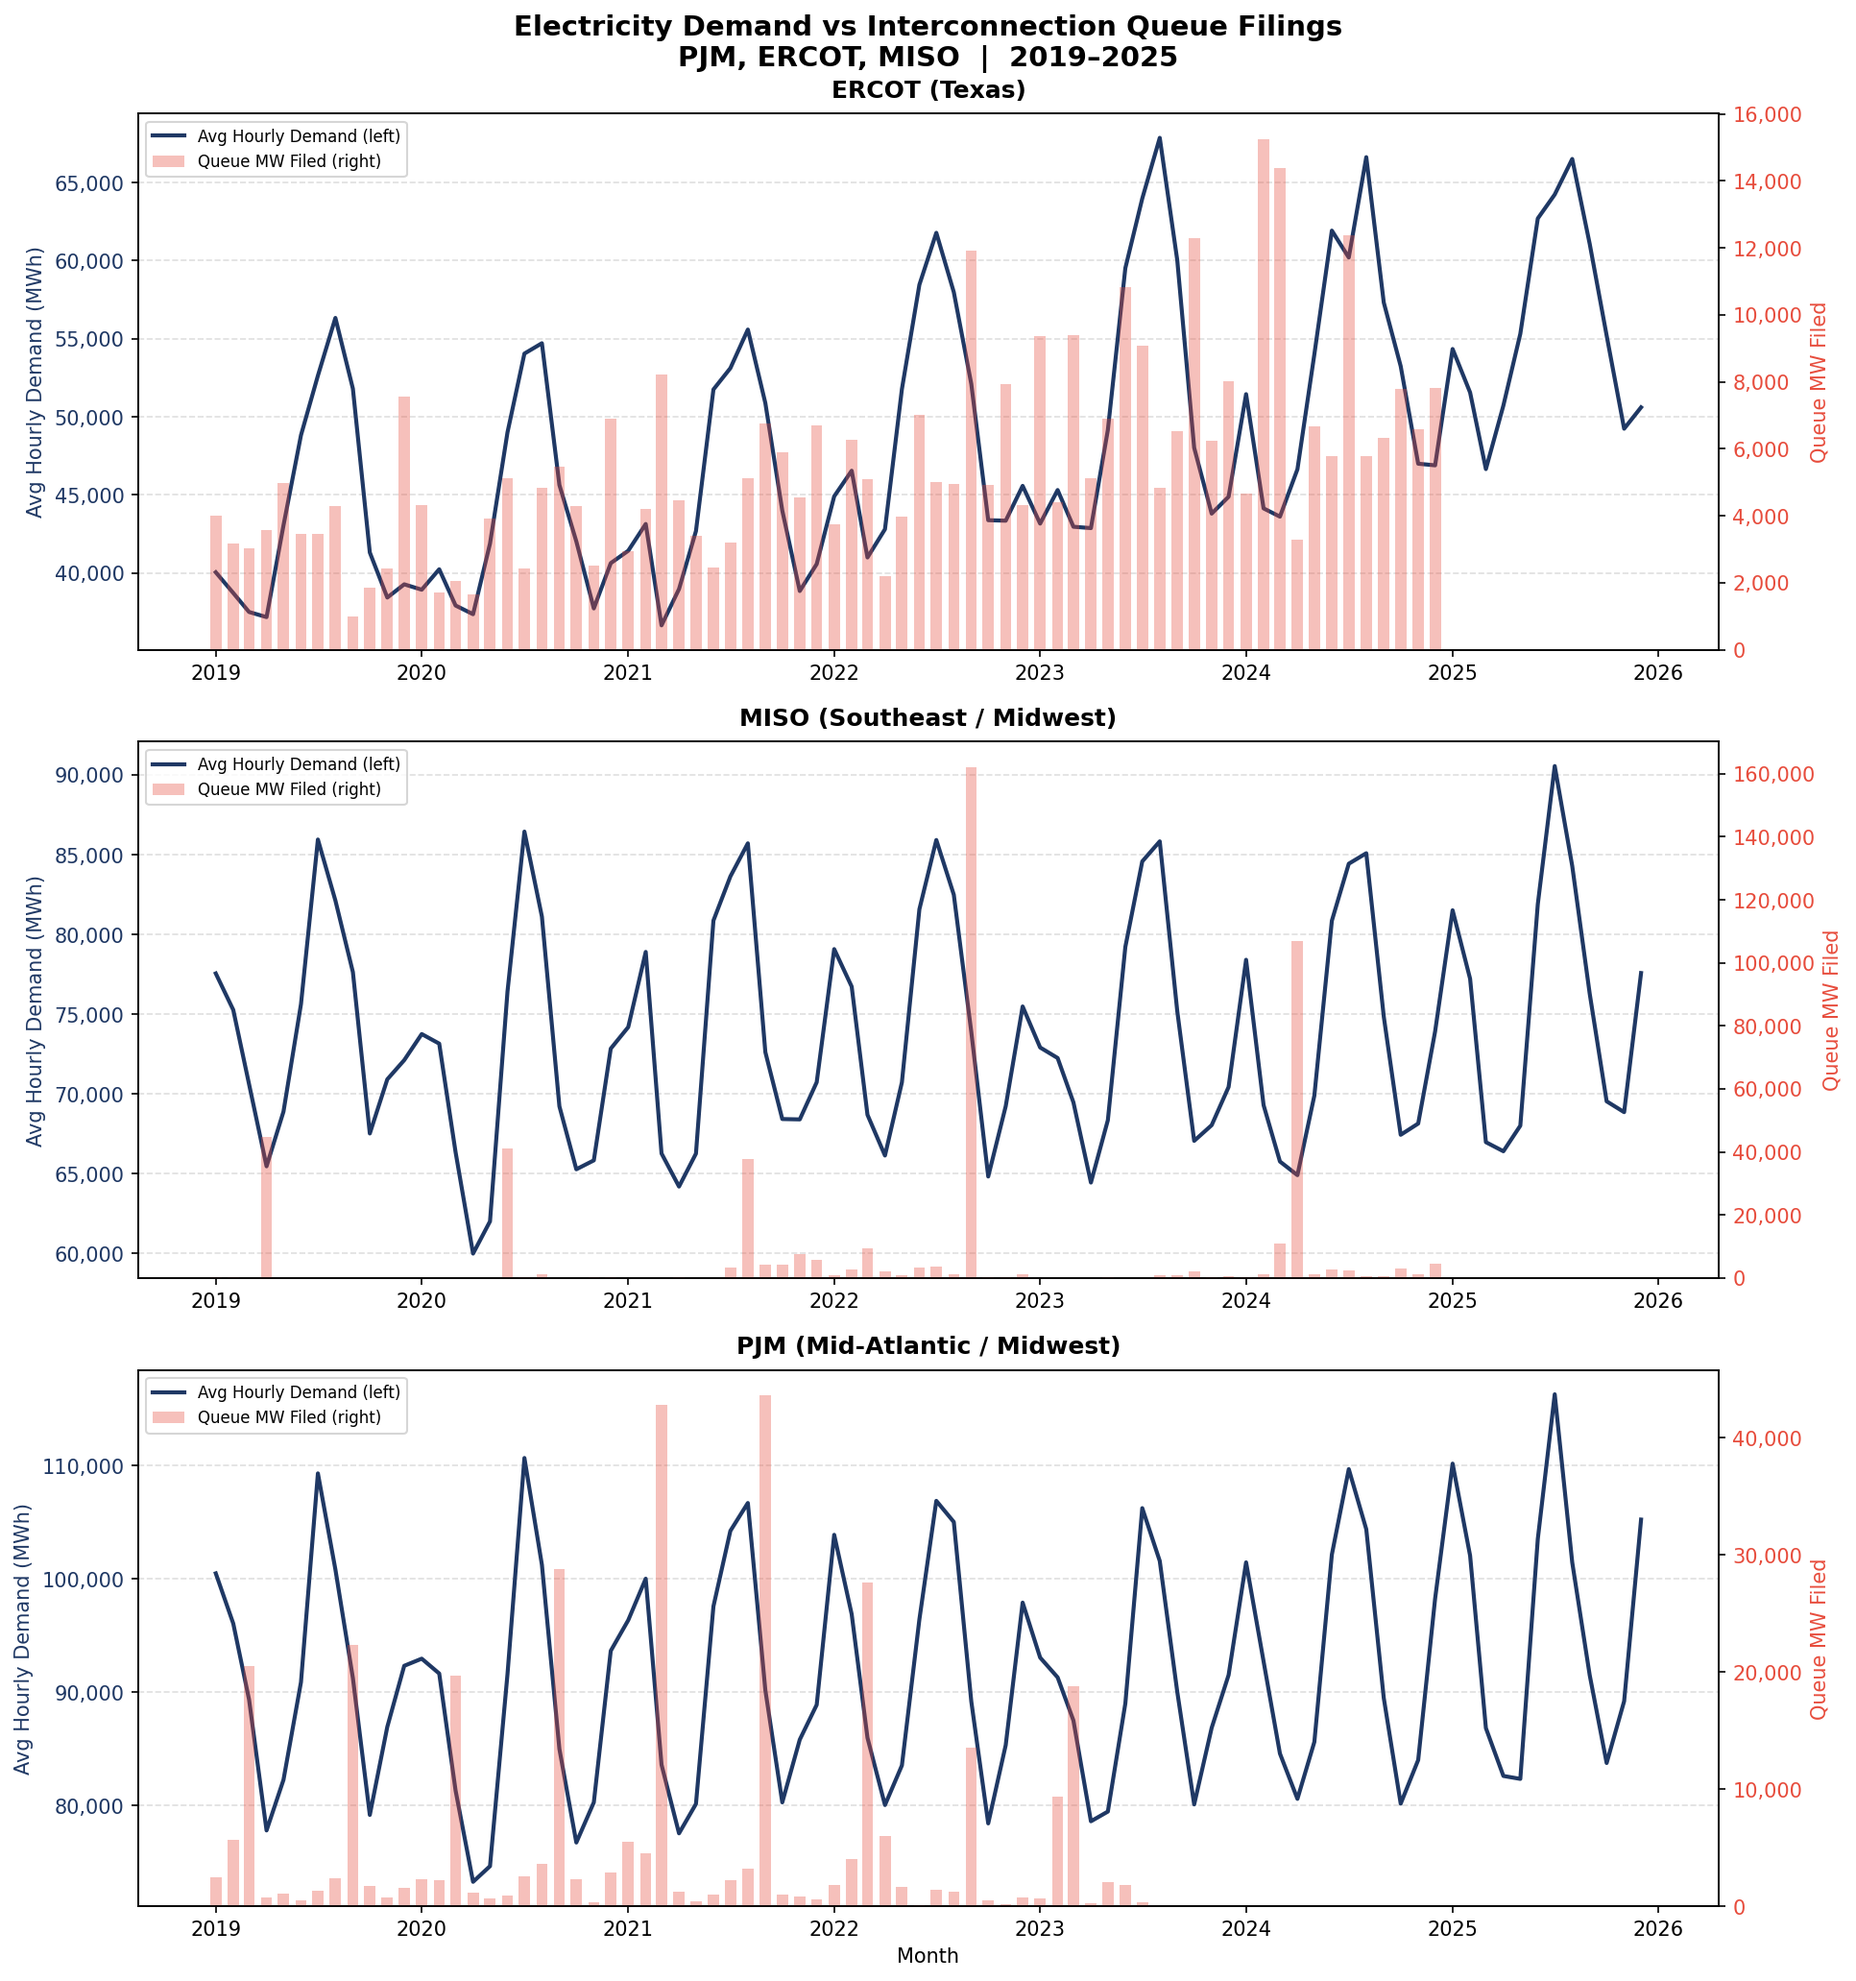
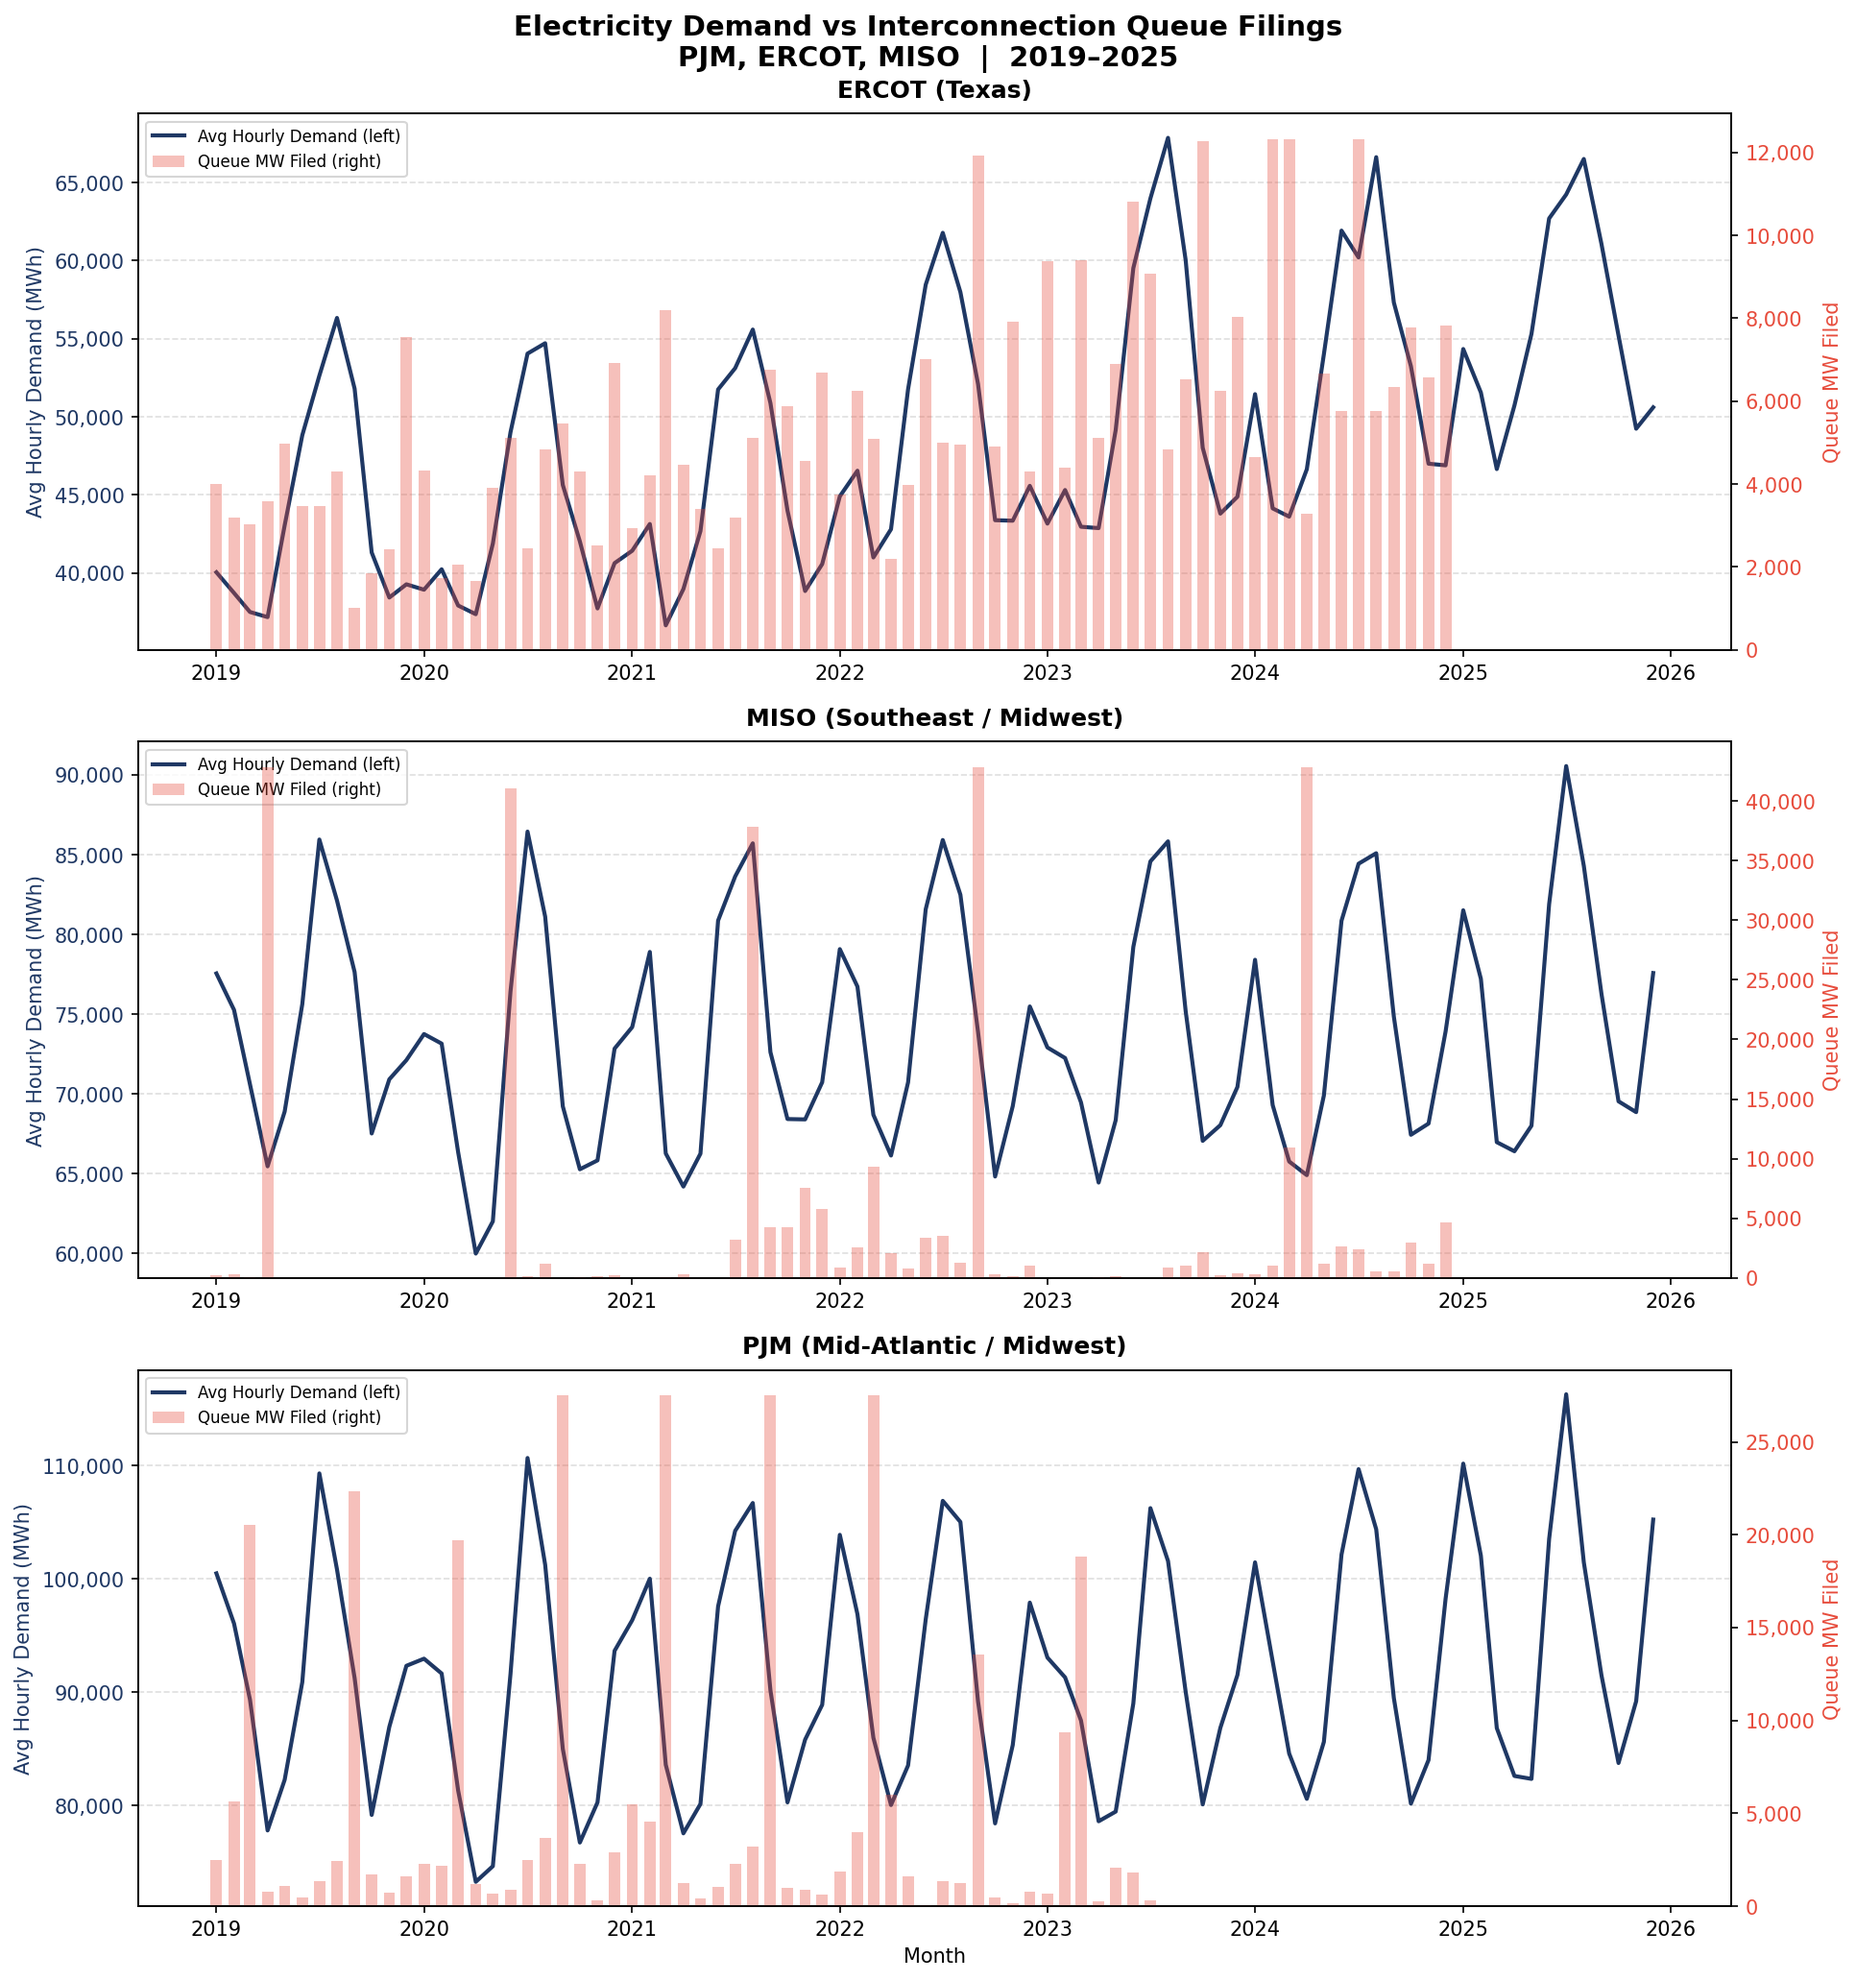
feat: add batch-filing outlier cap, regenerate panel and co-movement charts

diff --git a/scripts/build_panel.py b/scripts/build_panel.py
@@ -28,6 +28,12 @@ Notes on data cleaning:
   - EIA data contains three corrupt PJM rows from 2021-10-19 with values
     in the billions of MWh. These are filtered out with a 500,000 MWh cap,
     consistent with explore_eia.py.
+  - MISO queue data contains two batch-filing months (2022-09: 883 projects,
+    162 GW; 2024-04: 547 projects, 107 GW) where MISO processed a large
+    administrative backlog and stamped all projects with the same queue date.
+    These are capped at the 99th percentile of monthly filings per BA to
+    prevent them from dominating the panel and distorting lag variables.
+    This decision is documented as an explicit data cleaning step.
 """
 
 import os
@@ -150,6 +156,23 @@ flow = flow.merge(count_filed, on=["ba", "year_month"], how="left")
 flow["queue_mw_filed_large"] = flow["queue_mw_filed_large"].fillna(0)
 
 print(f"  Flow rows: {len(flow):,}")
+print()
+
+# ── Step 3b: Cap batch-filing outliers at 99th percentile per BA ──────────────
+print("Step 3b: Capping batch-filing outliers...")
+
+p99 = flow.groupby("ba")["queue_mw_filed"].quantile(0.99)
+before = flow["queue_mw_filed"].max()
+flow["queue_mw_filed"] = flow.apply(
+    lambda row: min(row["queue_mw_filed"], p99[row["ba"]]),
+    axis=1
+)
+after = flow["queue_mw_filed"].max()
+print(f"  Max queue_mw_filed before cap: {before:,.0f} MW")
+print(f"  Max queue_mw_filed after cap:  {after:,.0f} MW")
+print(f"  99th percentile caps by BA:")
+for ba, val in p99.items():
+    print(f"    {ba}: {val:,.0f} MW")
 print()
 
 # ── Step 4: Build complete BA x month scaffold (2019-01 to 2025-12) ──────────
